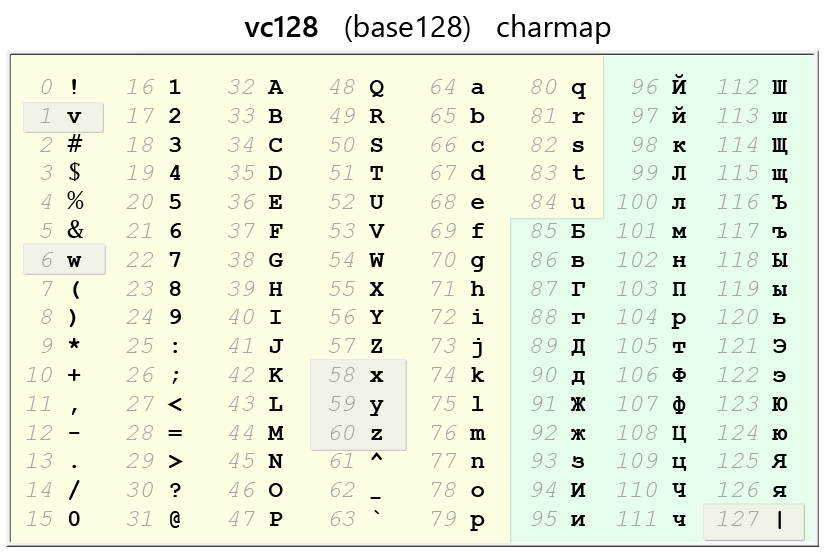
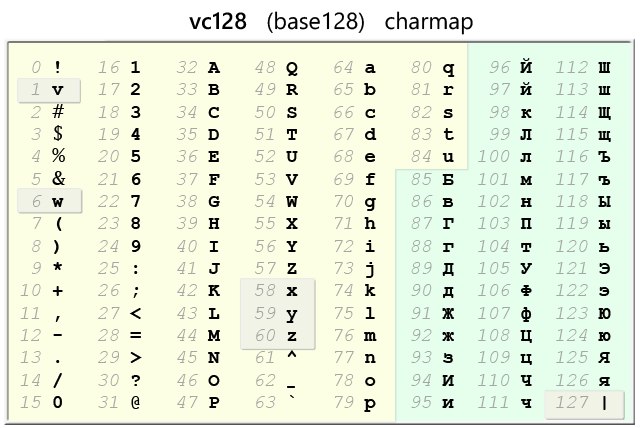
charmap modified

diff --git a/src/vc128.php b/src/vc128.php
@@ -38,10 +38,10 @@ class vc128
             self::$vc128enc[$i] = \chr($charNum);
         }
         // добавляем только те кириллические символы, для которых отсутствуют визуально-совпадающие символы в латинице:
-        $vcArr = \explode(' ', "Б в Г г Д д Ж ж з И и Й й к Л л м н П р т Ф ф Ц ц Ч ч Ш ш Щ щ Ъ ъ Ы ы ь Э э Ю ю Я я |");
-        // не хватает ёЁ, заменяются б на 6, п на n, У на Y, остальные кирилличные символы визуально идентичны латинице
+        $vcArr = \explode(' ', "Б в Г г Д д Ж ж з И и Й й к Л л м н П т У Ф ф Ц ц Ч ч Ш ш Щ щ Ъ ъ Ы ы ь Э э Ю ю Я я |");
+        // не хватает ёЁ, заменяются б на 6, п на n, остальные кирилличные символы визуально идентичны латинице
         // символы в коде utf-8 (поэтому сам файл с php-кодом должен быть в utf-8). Последний символ однобайтовый.
[2 lines of base64/hex data omitted]
         for(; $i < 128; $i++) {
             $p = $i - 85;
             $charEnc = $vcArr[$p];
